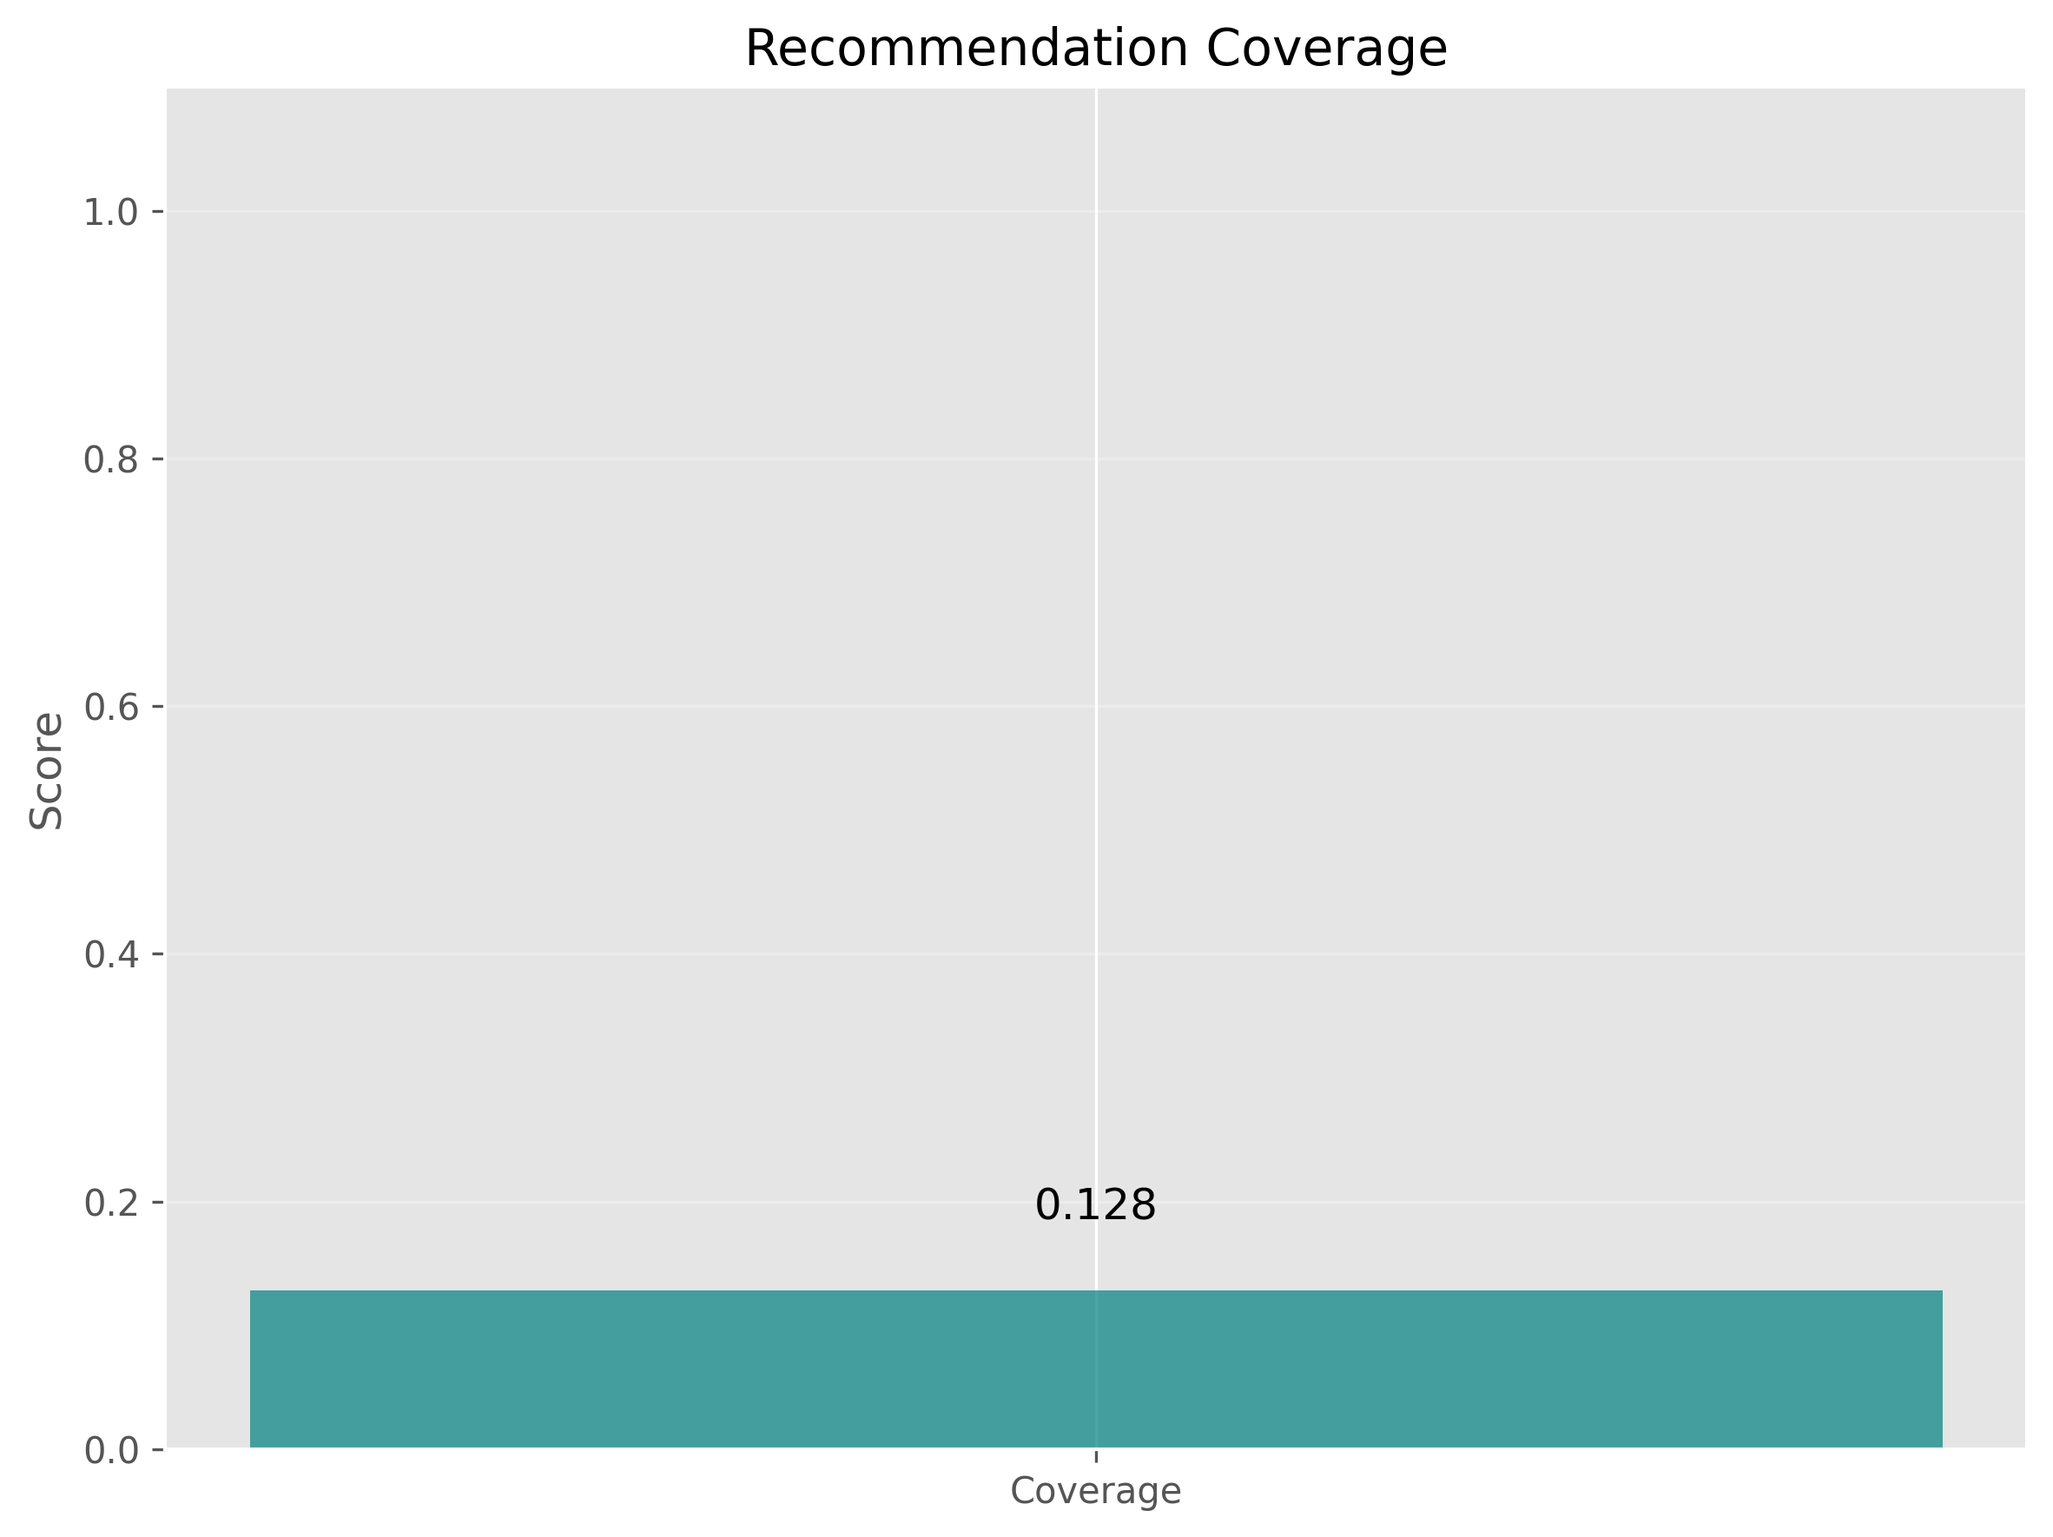
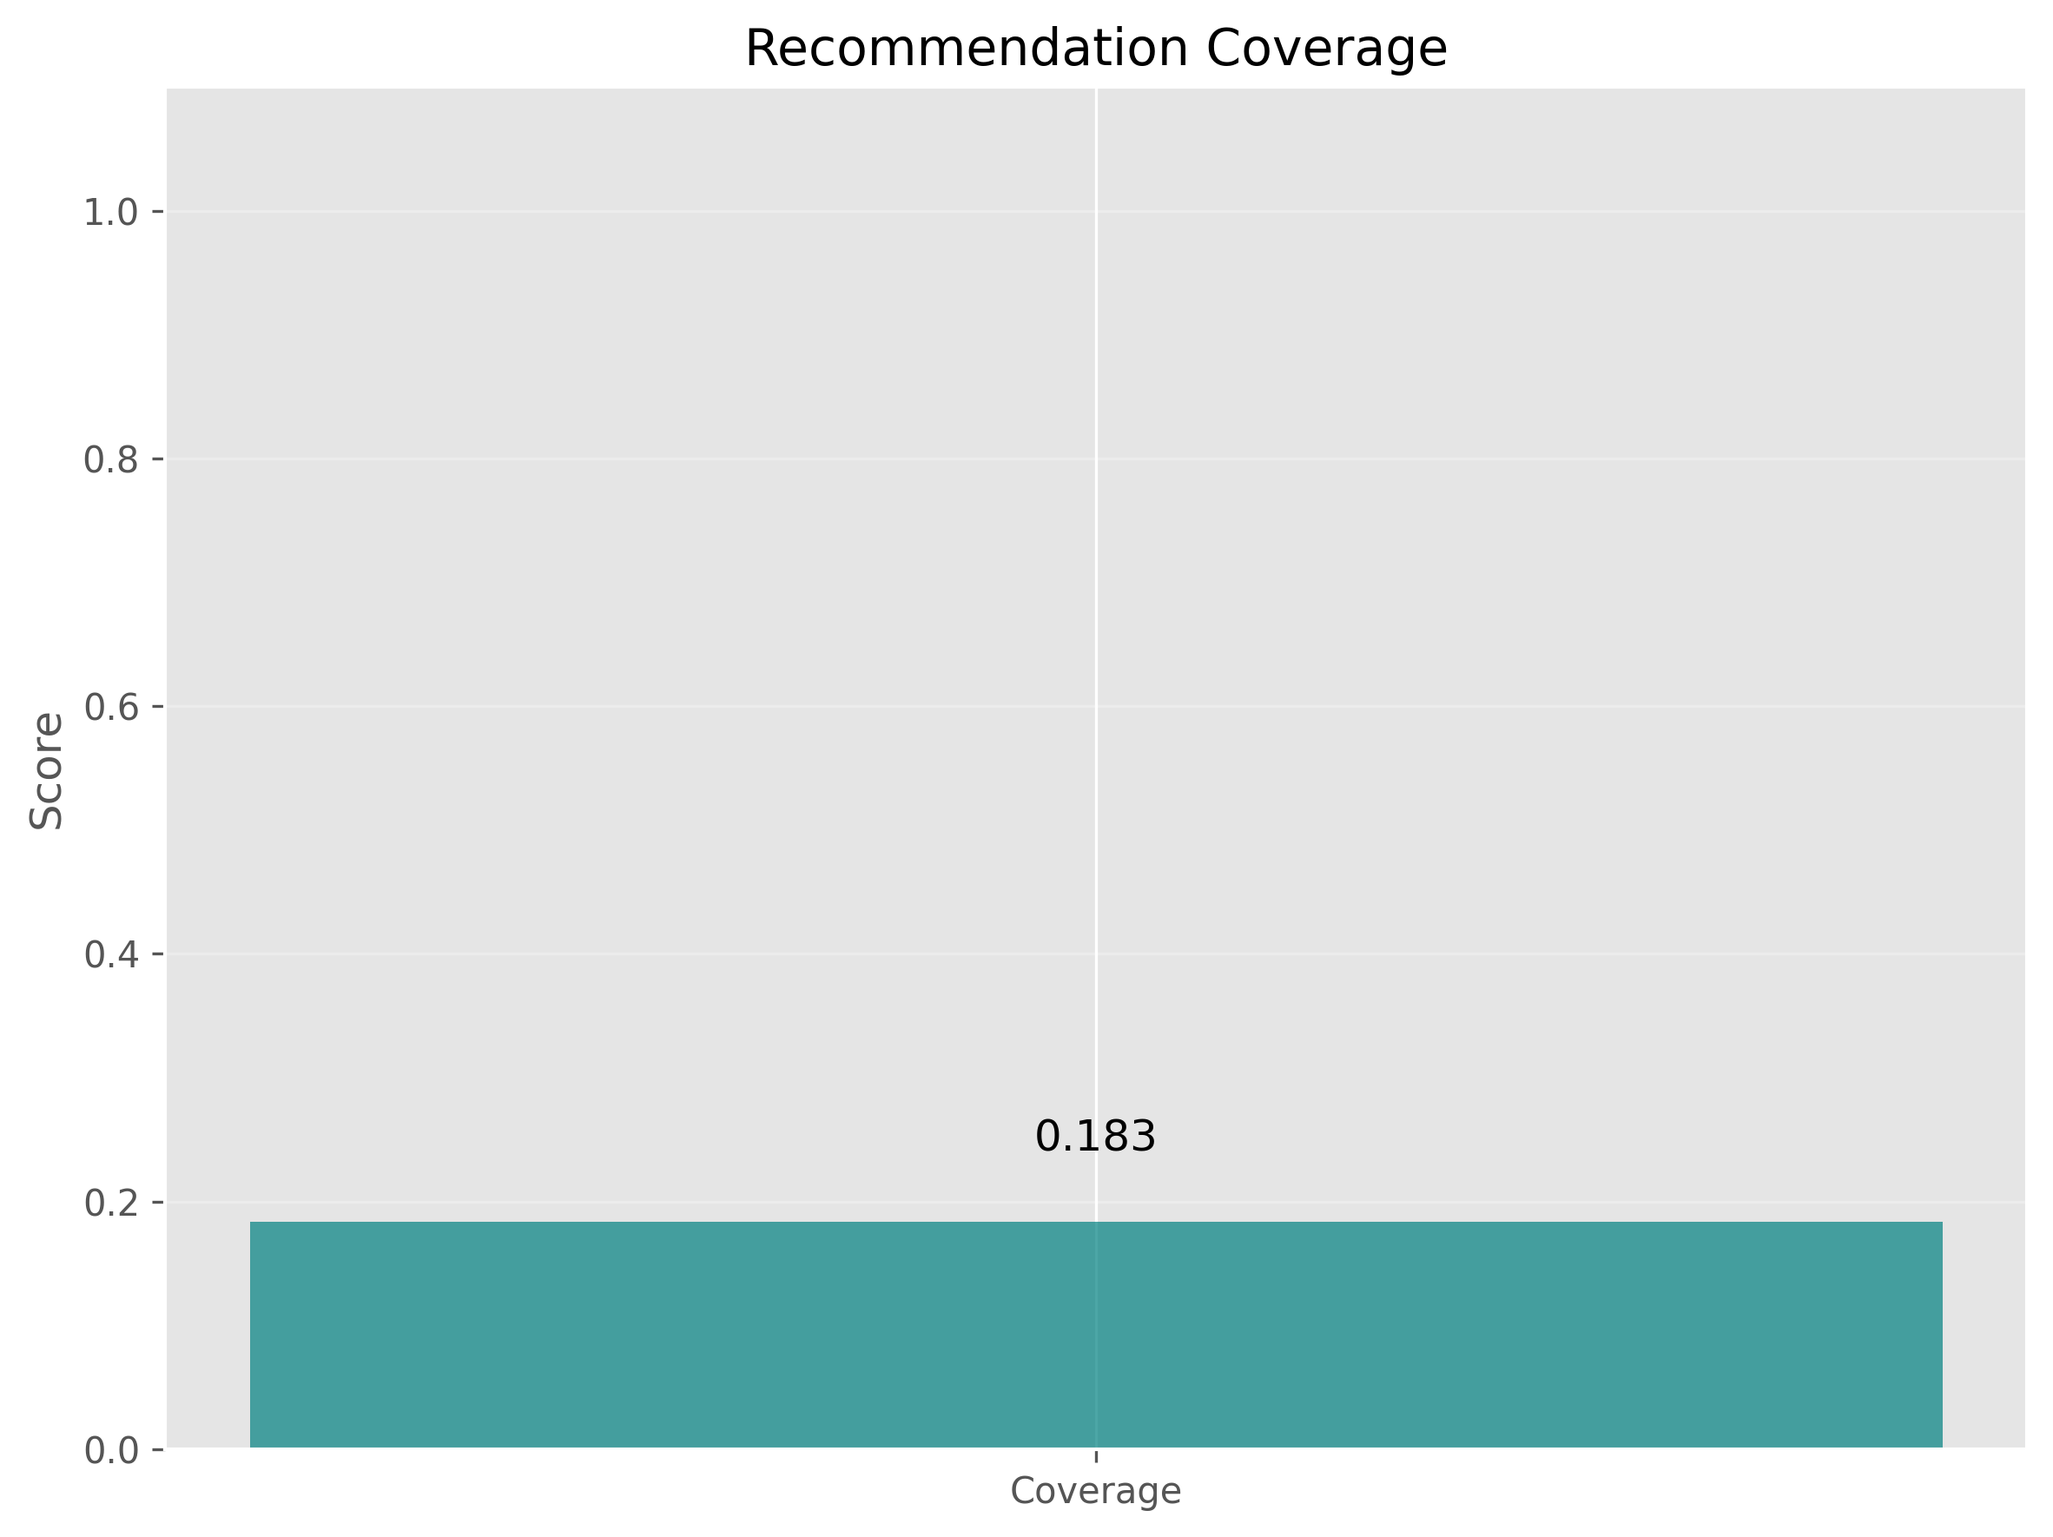
anyway

Changed region(s): [[0.1235, 0.7147, 0.9573, 0.839]]

diff --git a/src/models/content_model.py b/src/models/content_model.py
@@ -1,0 +1,295 @@
+#!/usr/bin/env python
+# -*- coding: utf-8 -*-
+
+"""
+src/models/content_model.py - Content-based recommendation model
+Author: YourName
+Date: 2025-04-27
+Description: Implements content-based recommendation using item similarities
+"""
+
+import numpy as np
+import logging
+import pickle
+import os
+
+from .base_model import BaseRecommenderModel
+
+logger = logging.getLogger(__name__)
+
+class ContentBasedModel(BaseRecommenderModel):
+    """Content-based recommendation model using item similarities"""
+
+    def __init__(self, similarity_matrix=None):
+        """Initialize content-based model
+
+        Args:
+            similarity_matrix (dict): Dictionary mapping item_id to list of (similar_item_id, score) tuples
+        """
+        self.similarity_matrix = similarity_matrix or {}
+        self.user_preferences = {}
+        self.popular_items = []
+
+    def fit(self, data):
+        """Train the model with provided data
+
+        Args:
+            data (dict): Dictionary containing:
+                - similarity_matrix: Item similarity matrix
+                - user_data: Optional user interaction data
+                - item_data: Optional item metadata
+
+        Returns:
+            self: Trained model
+        """
+        logger.info("Training content-based model...")
+
+        # Handle different input formats
+        if isinstance(data, dict):
+            if 'similarity_matrix' in data:
+                self.similarity_matrix = data['similarity_matrix']
+            elif 'embeddings' in data:
+                # Create similarity matrix from embeddings
+                from sklearn.metrics.pairwise import cosine_similarity
+                import numpy as np
+
+                embeddings = data['embeddings']
+                items = list(embeddings.keys())
+
+                # Create embedding matrix
+                matrix = np.array([embeddings[item_id] for item_id in items])
+
+                # Calculate similarity
+                sim_matrix = cosine_similarity(matrix)
+
+                # Convert to similarity dictionary
+                self.similarity_matrix = {}
+                for i, item_id in enumerate(items):
+                    sims = [(items[j], sim_matrix[i, j]) for j in range(len(items)) if i != j]
+                    sims.sort(key=lambda x: x[1], reverse=True)
+                    self.similarity_matrix[item_id] = sims
+        else:
+            # Try to extract user preferences from DataFrame
+            try:
+                interactions_df = data
+                # Group by user_id and calculate preferences
+                for user_id in interactions_df['user_id'].unique():
+                    user_data = interactions_df[interactions_df['user_id'] == user_id]
+
+                    # Get user's positively rated items
+                    if 'is_recommended' in user_data.columns:
+                        positive_items = user_data[user_data['is_recommended'] == True]['app_id'].tolist()
+                    elif 'rating' in user_data.columns:
+                        # Assuming ratings above 7 are positive (on a 1-10 scale)
+                        positive_items = user_data[user_data['rating'] >= 7]['app_id'].tolist()
+                    else:
+                        # Use top 25% by hours as positive
+                        hours_threshold = user_data['hours'].quantile(0.75)
+                        positive_items = user_data[user_data['hours'] >= hours_threshold]['app_id'].tolist()
+
+                    self.user_preferences[user_id] = positive_items
+            except Exception as e:
+                logger.warning(f"Error extracting user preferences: {str(e)}")
+
+        logger.info(f"Content-based model trained with {len(self.similarity_matrix)} items")
+        return self
+
+    def predict(self, user_id, item_id):
+        """Predict rating for a user-item pair
+
+        Args:
+            user_id: User ID
+            item_id: Item ID
+
+        Returns:
+            float: Predicted rating (0-1 scale)
+        """
+        # Check if item exists in similarity matrix
+        if item_id not in self.similarity_matrix:
+            return 0.5
+
+        # Check if we have user preferences
+        if user_id not in self.user_preferences or not self.user_preferences[user_id]:
+            return 0.5
+
+        # Get user's liked items
+        liked_items = self.user_preferences[user_id]
+
+        # Get similarity between target item and user's liked items
+        similarities = []
+        for liked_item in liked_items:
+            # Find similarity between liked_item and item_id
+            for sim_item, sim_score in self.similarity_matrix.get(liked_item, []):
+                if sim_item == item_id:
+                    similarities.append(sim_score)
+                    break
+
+        # If no similarities found, return default score
+        if not similarities:
+            return 0.5
+
+        # Return average similarity
+        return np.mean(similarities)
+
+    def recommend(self, user_id, n=10):
+        """Generate top-N recommendations for a user
+
+        Args:
+            user_id: User ID
+            n (int): Number of recommendations
+
+        Returns:
+            list: List of (item_id, score) tuples
+        """
+        # Check if we have user preferences
+        if user_id not in self.user_preferences or not self.user_preferences[user_id]:
+            logger.warning(f"No preferences found for user {user_id}, returning popular items")
+            return self.popular_items[:n]
+
+        # Get user's liked items
+        liked_items = self.user_preferences[user_id]
+
+        # Get similar items to ones the user likes
+        candidate_items = {}
+
+        for liked_item in liked_items:
+            if liked_item in self.similarity_matrix:
+                for sim_item, sim_score in self.similarity_matrix[liked_item]:
+                    # Skip items the user already likes
+                    if sim_item in liked_items:
+                        continue
+
+                    # Update candidate score (take maximum similarity)
+                    if sim_item not in candidate_items or sim_score > candidate_items[sim_item]:
+                        candidate_items[sim_item] = sim_score
+
+        # Sort candidates by score
+        sorted_candidates = sorted(candidate_items.items(), key=lambda x: x[1], reverse=True)
+
+        # Return top N
+        return sorted_candidates[:n]
+
+    def update(self, new_data):
+        """Update model with new data (incremental learning)
+
+        Args:
+            new_data (dict or DataFrame): New data to update the model with
+
+        Returns:
+            self: Updated model
+        """
+        logger.info("Updating content-based model...")
+
+        # Handle different input formats
+        if isinstance(new_data, dict):
+            # Update similarity matrix
+            if 'similarity_matrix' in new_data:
+                self.similarity_matrix.update(new_data['similarity_matrix'])
+
+            # Update user preferences
+            if 'user_preferences' in new_data:
+                for user_id, prefs in new_data['user_preferences'].items():
+                    if user_id in self.user_preferences:
+                        # Add new preferences while avoiding duplicates
+                        self.user_preferences[user_id] = list(set(self.user_preferences[user_id] + prefs))
+                    else:
+                        self.user_preferences[user_id] = prefs
+
+            # Update popular items
+            if 'popular_items' in new_data:
+                self.popular_items = new_data['popular_items']
+        else:
+            # Try to extract user preferences from DataFrame
+            try:
+                interactions_df = new_data
+                # Group by user_id and update preferences
+                for user_id in interactions_df['user_id'].unique():
+                    user_data = interactions_df[interactions_df['user_id'] == user_id]
+
+                    # Get user's positively rated items
+                    if 'is_recommended' in user_data.columns:
+                        positive_items = user_data[user_data['is_recommended'] == True]['app_id'].tolist()
+                    elif 'rating' in user_data.columns:
+                        # Assuming ratings above 7 are positive (on a 1-10 scale)
+                        positive_items = user_data[user_data['rating'] >= 7]['app_id'].tolist()
+                    else:
+                        # Use top 25% by hours as positive
+                        hours_threshold = user_data['hours'].quantile(0.75)
+                        positive_items = user_data[user_data['hours'] >= hours_threshold]['app_id'].tolist()
+
+                    # Update existing preferences
+                    if user_id in self.user_preferences:
+                        self.user_preferences[user_id] = list(set(self.user_preferences[user_id] + positive_items))
+                    else:
+                        self.user_preferences[user_id] = positive_items
+            except Exception as e:
+                logger.warning(f"Error updating user preferences: {str(e)}")
+
+        logger.info("Content-based model updated successfully")
+        return self
+
+    def save(self, path):
+        """Save model to disk
+
+        Args:
+            path (str): Directory path
+
+        Returns:
+            bool: Success
+        """
+        logger.info(f"Saving content-based model to {path}")
+
+        try:
+            os.makedirs(path, exist_ok=True)
+
+            # Save similarity matrix
+            with open(os.path.join(path, 'content_similarity.pkl'), 'wb') as f:
+                pickle.dump(self.similarity_matrix, f)
+
+            # Save user preferences
+            with open(os.path.join(path, 'user_preferences.pkl'), 'wb') as f:
+                pickle.dump(self.user_preferences, f)
+
+            # Save popular items
+            with open(os.path.join(path, 'popular_items.pkl'), 'wb') as f:
+                pickle.dump(self.popular_items, f)
+
+            logger.info("Content-based model saved successfully")
+            return True
+        except Exception as e:
+            logger.error(f"Error saving content-based model: {str(e)}")
+            return False
+
+    def load(self, path):
+        """Load model from disk
+
+        Args:
+            path (str): Directory path
+
+        Returns:
+            self: Loaded model
+        """
+        logger.info(f"Loading content-based model from {path}")
+
+        try:
+            # Load similarity matrix
+            with open(os.path.join(path, 'content_similarity.pkl'), 'rb') as f:
+                self.similarity_matrix = pickle.load(f)
+
+            # Load user preferences if available
+            user_prefs_path = os.path.join(path, 'user_preferences.pkl')
+            if os.path.exists(user_prefs_path):
+                with open(user_prefs_path, 'rb') as f:
+                    self.user_preferences = pickle.load(f)
+
+            # Load popular items if available
+            popular_items_path = os.path.join(path, 'popular_items.pkl')
+            if os.path.exists(popular_items_path):
+                with open(popular_items_path, 'rb') as f:
+                    self.popular_items = pickle.load(f)
+
+            logger.info("Content-based model loaded successfully")
+            return self
+        except Exception as e:
+            logger.error(f"Error loading content-based model: {str(e)}")
+            return None

diff --git a/src/recommender.py b/src/recommender.py
@@ -23,6 +23,7 @@ from models.knn_model import KNNModel
 from models.svd_model import SVDModel
 from models.sequence_model import SequenceRecommender
 from models.hybrid_model import HybridRecommender
+from models.content_model import ContentBasedModel
 from evaluation.evaluator import RecommenderEvaluator
 from visualization.visualizer import RecommenderVisualizer
 
@@ -51,7 +52,7 @@ class SteamRecommender:
                 'epochs': 10
             },
             'knn_params': {
-                'user_neighbors': 20,
+                'user_neighbors': 30,
                 'item_neighbors': 20,
                 'metric': 'cosine',
                 'algorithm': 'brute',
@@ -67,9 +68,9 @@ class SteamRecommender:
             'n_recommendations': 10,
             'user_knn_weight': 0.25,
             'item_knn_weight': 0.25,
-            'svd_weight': 0.2,
-            'content_weight': 0.15,
-            'sequence_weight': 0.15,
+            'svd_weight': 0.25,
+            'content_weight': 0.125,
+            'sequence_weight': 0.125,
             'use_gpu': torch.cuda.is_available()
         }
 
@@ -231,11 +232,30 @@ class SteamRecommender:
             else:
                 logger.warning("Sequence feature columns not found, skipping sequence model training")
 
-            # 4. Create content-based similarity matrix
-            logger.info("Creating content-based similarity matrix...")
+            # 4. Create content-based model
+            logger.info("Creating content-based model...")
             self.feature_extractor.create_game_embeddings(train_df)
             content_sim = self.feature_extractor.get_similarity_matrix(self.feature_extractor.game_embeddings)
-            self.models['content'] = content_sim
+            content_model = ContentBasedModel(content_sim)
+
+            # Extract user preferences from training data for content-based model
+            logger.info("Extracting user preferences for content-based model...")
+            user_preferences = {}
+            for user_id in train_df['user_id'].unique():
+                user_data = train_df[train_df['user_id'] == user_id]
+                # Get user's positively rated items
+                if 'is_recommended' in user_data.columns:
+                    positive_items = user_data[user_data['is_recommended'] == True]['app_id'].tolist()
+                    user_preferences[user_id] = positive_items
+
+            # Set user preferences in content model
+            content_model.user_preferences = user_preferences
+
+            # Set popular items for cold start
+            popular_games = self.get_popular_games(20)
+            content_model.popular_items = popular_games
+
+            self.models['content'] = content_model
 
             # 5. Create hybrid recommender
             if all(model is not None for model in self.models.values()):
@@ -478,10 +498,9 @@ class SteamRecommender:
             # Content model
             content_dir = os.path.join(models_dir, 'content')
             if os.path.exists(content_dir):
-                # For content similarity matrix, load directly
-                with open(os.path.join(content_dir, 'content_similarity.pkl'), 'rb') as f:
-                    content_sim = pickle.load(f)
-                self.models['content'] = content_sim
+                content_model = ContentBasedModel()
+                content_model.load(content_dir)
+                self.models['content'] = content_model
 
             # Load game embeddings if available
             embeddings_path = os.path.join(path, 'game_embeddings.pkl')
